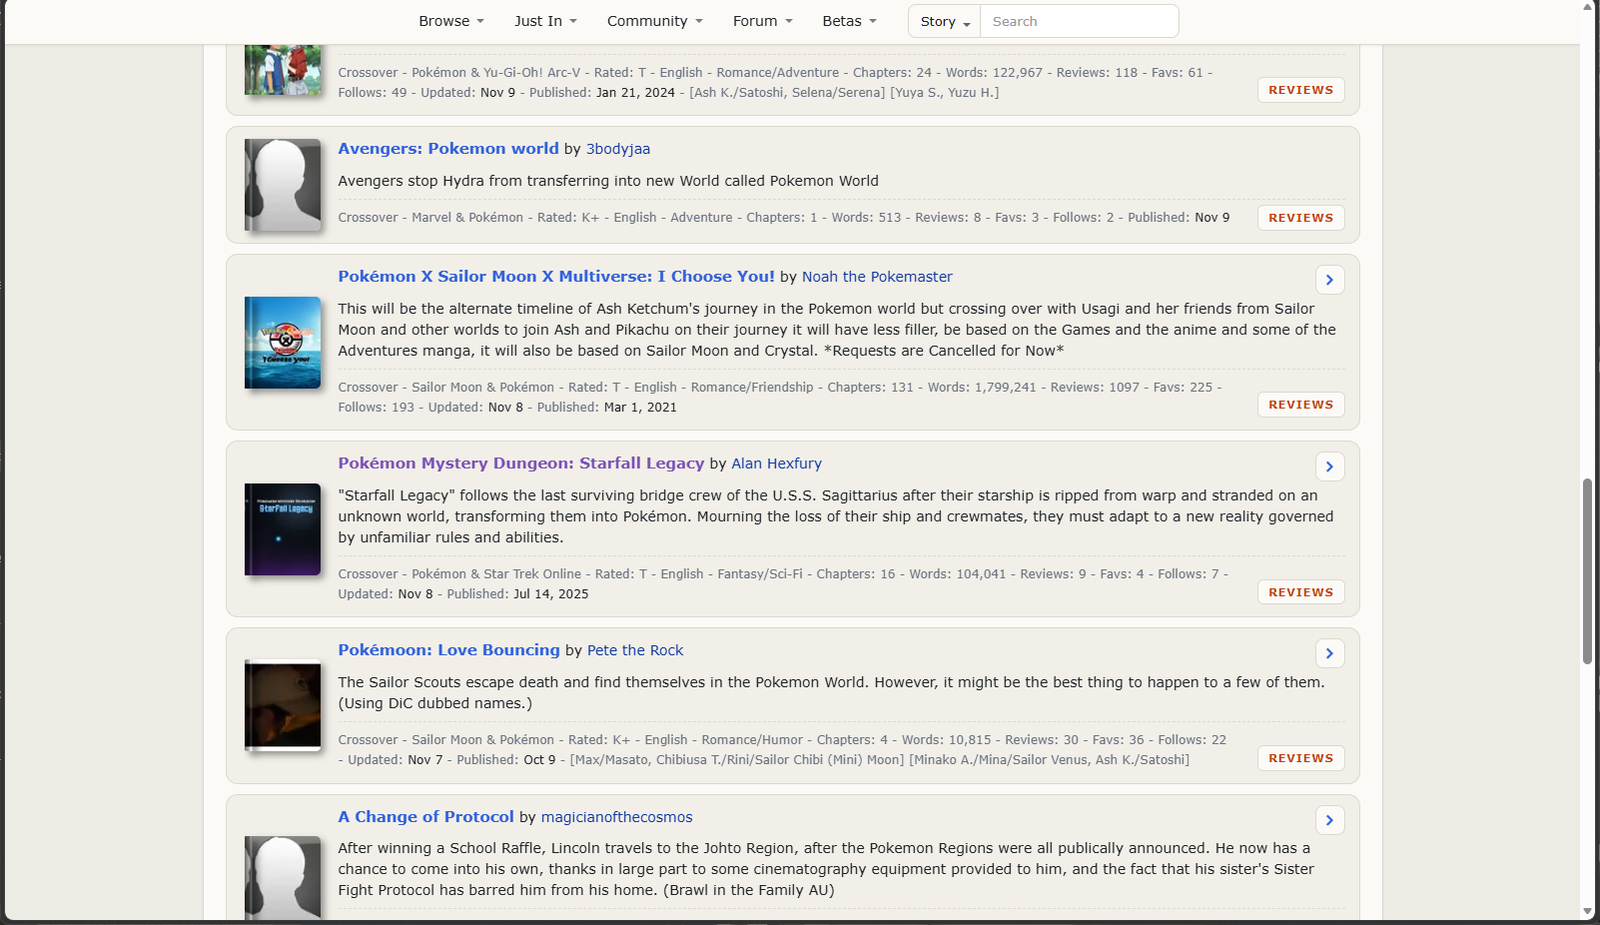
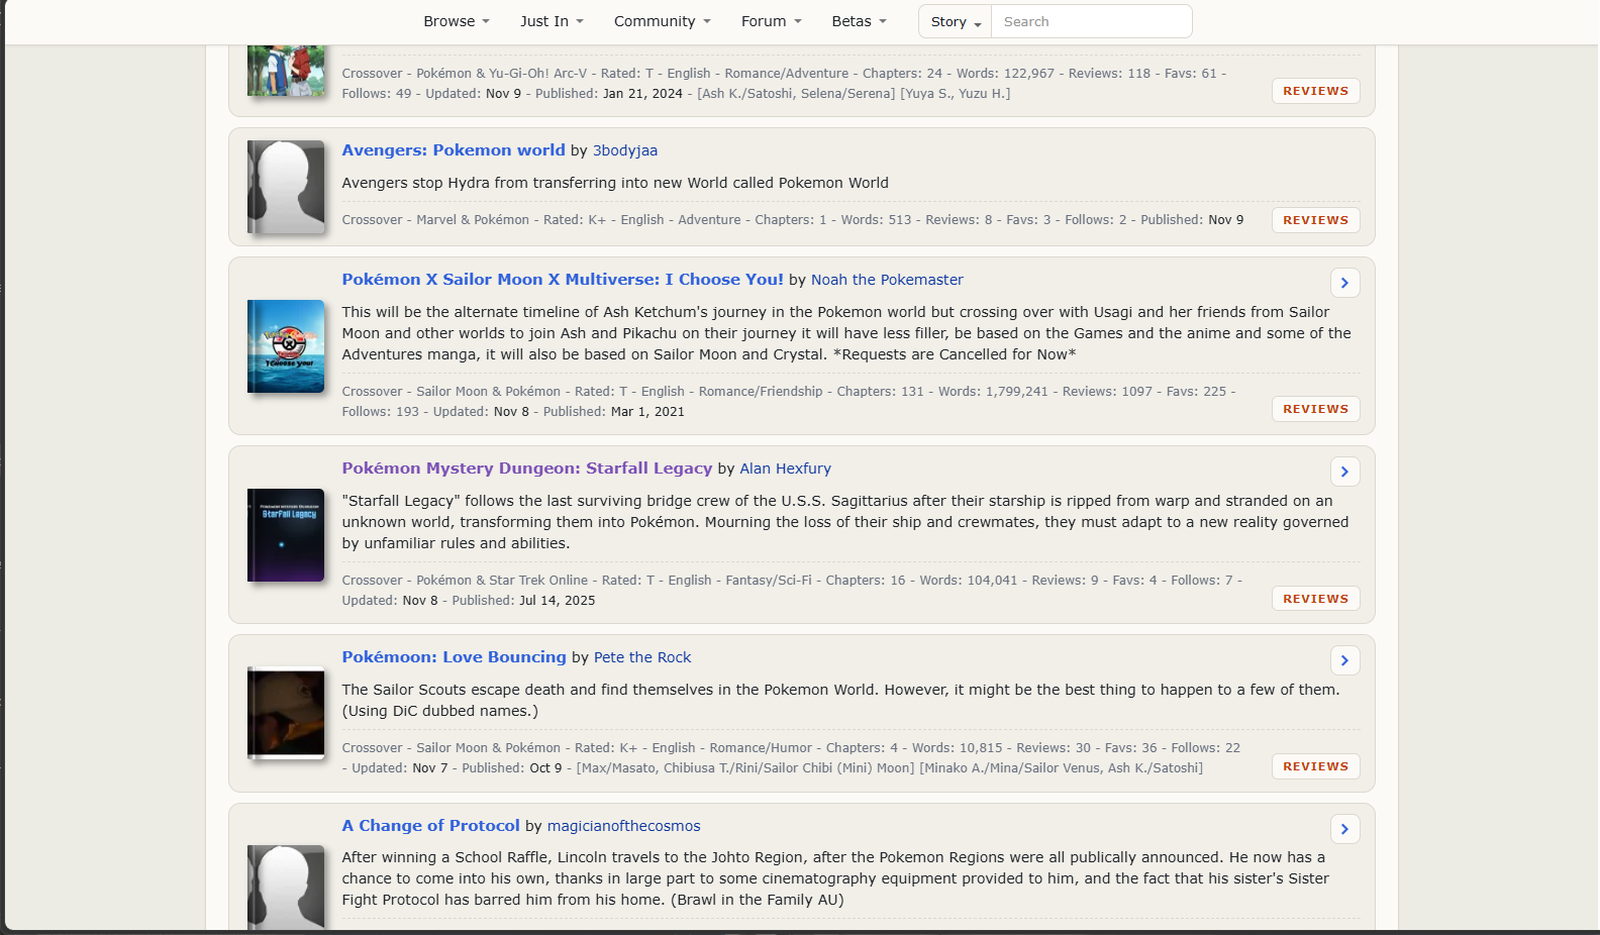
Listing images: crop the window scrollbar off the right edge

diff --git a/tools/cover.py b/tools/cover.py
@@ -10,6 +10,7 @@ from PIL import Image, ImageDraw, ImageFilter
 
 shots_dir, out, *names = sys.argv[1:]
 CHROME = 82                 # browser tab + address bar height in the shots
+SCROLLBAR = 18              # the window's scrollbar at the right edge of the shots
 W, H = 1600, 900            # cover size (16:9)
 SLANT = 150                 # how far each cut leans, top to bottom
 GAP = 3                     # light seam between shards
@@ -40,7 +41,7 @@ frames, accents = [], []
 for n in names:
     im = Image.open(f'{shots_dir}/{n}').convert('RGB')
     accents.append(accent_of(im))
-    im = im.crop((0, CHROME, im.width, im.height))
+    im = im.crop((0, CHROME, im.width - SCROLLBAR, im.height))
     im = im.resize((W, round(im.height * W / im.width)), Image.LANCZOS)
     frames.append(im.crop((0, 0, W, H)))
 

diff --git a/tools/shots.py b/tools/shots.py
@@ -7,13 +7,14 @@ import sys
 from PIL import Image
 
 CHROME = 82     # tab strip + address bar in the shots
+SCROLLBAR = 18  # the window's scrollbar at the right edge
 W = 1600
 
 shots_dir, out_dir, *pairs = sys.argv[1:]
 for pair in pairs:
     name, file = pair.split('=', 1)
     im = Image.open(f'{shots_dir}/{file}').convert('RGB')
-    im = im.crop((0, CHROME, im.width, im.height))
+    im = im.crop((0, CHROME, im.width - SCROLLBAR, im.height))
     im = im.resize((W, round(im.height * W / im.width)), Image.LANCZOS)
     im.save(f'{out_dir}/{name}.png', optimize=True)
     print(name, im.size)
